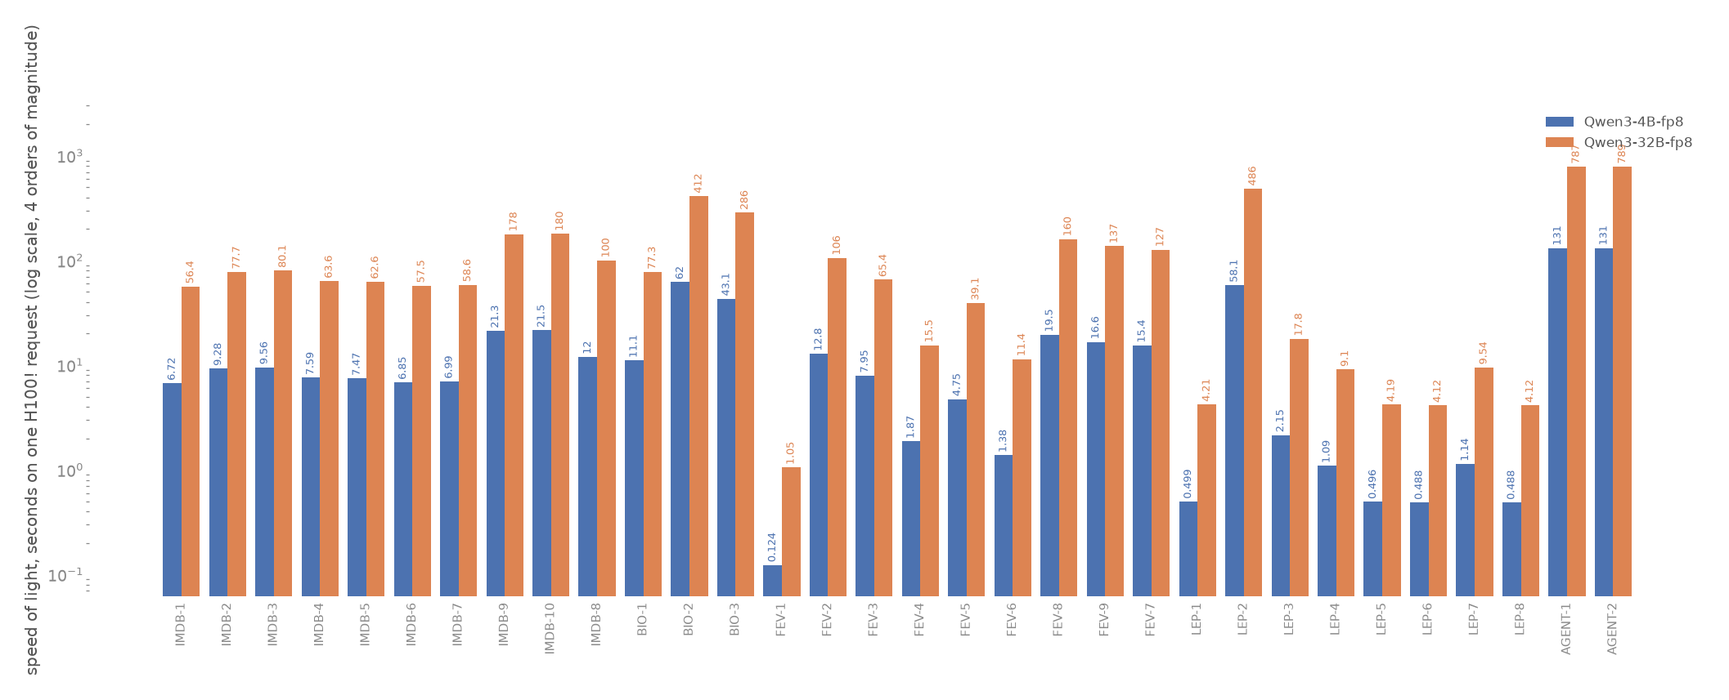
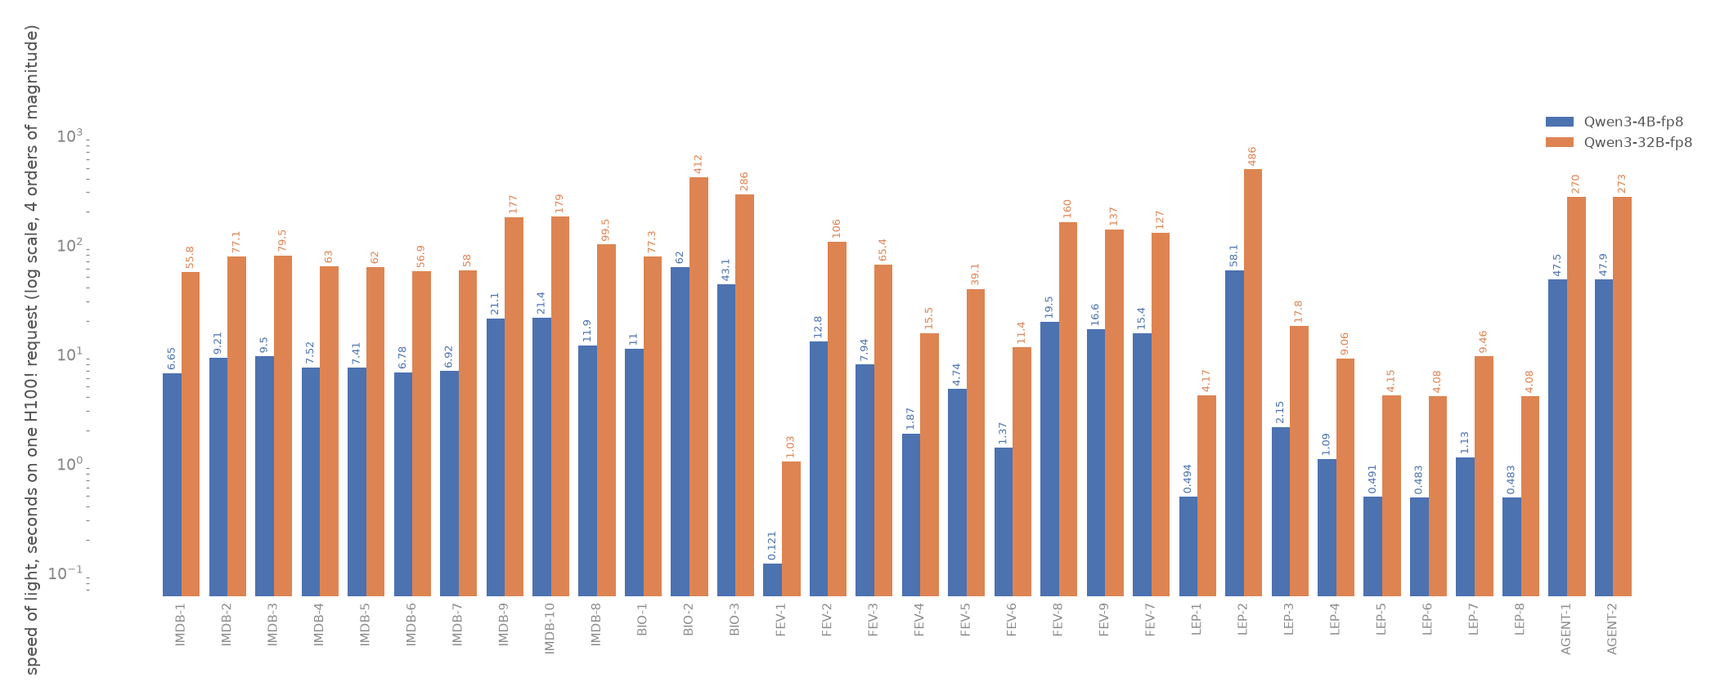
SoL credits token prefixes shared across documents
With unlimited KV an ideal execution computes each distinct token
prefix once, across documents as well as within one. The SoL script
now sorts each corpus's token sequences and credits every document the
longest common prefix with its predecessor, the size of the corpus
prefix trie, so a document's first use pays only for the tokens no
other document computed.

The review, report, claim, and passage corpora share under 1% of
their tokens this way and their estimates move by 0.3%. The agent
traces share 68.9%: AGENT-1 drops from 130.96 s to 47.46 s of ideal
work for Qwen3 4B fp8. Against that mark Quail, which computes every
trace from scratch, sits at 5.05x, pipelined vLLM at 2.06x, and stock
vLLM at 2.86x. The 32 query totals are 3.51x SoL for Quail, 7.43x for
stock vLLM, and 7.10x for pipelined vLLM. Both reports and both figure
sets are rebuilt, and the file is on the quail-results volume at
/sol/sol_quailb_sf0.1.json.

Claude-Session: https://claude.ai/code/session_01BKjo54TohtVqYAhCSb6Qz8

diff --git a/reports/make_sol_quailb.py b/reports/make_sol_quailb.py
@@ -28,8 +28,11 @@ KV is computed, used once, and removed (`executor/pack.py` never retains tuple
 suffix KV).
 
 The estimate therefore computes a document prefix once however many questions
-get asked about it. Each later question still reads that prefix from KV. Three
-operations follow:
+get asked about it. Each later question still reads that prefix from KV. The
+same holds across documents: a token prefix that an earlier document already
+computed is resident, so a document pays only for the tokens beyond its
+longest common prefix with the corpus (agent trace rows sampled from one
+trajectory share most of their tokens). Three operations follow:
 
     scan()      compute a prefix and its first suffix, from nothing
     ask()       reuse a resident prefix, attach one more suffix
@@ -165,16 +168,43 @@ COLUMNS = {
     "agent_traces.trace": ("agent_traces", "trace"),
 }
 
-# 1. document lengths -------------------------------------------------
+# 1. document lengths and shared prefixes ----------------------------
+#
+# With unlimited KV, an ideal execution computes each distinct token
+# prefix once, across documents as well as within one. The tokens a
+# corpus needs are the nodes of the prefix trie over its documents,
+# and that count is the sum over the documents in sorted order of the
+# tokens beyond the longest common prefix with the previous document.
+# Each document is credited that shared length: its first use pays
+# only for the tokens no earlier document computed.
 lengths = {}        # column -> {doc id: token count}
+shared = {}         # column -> {doc id: prefix tokens another doc computed}
+
+
+def longest_common_prefix(left, right) -> int:
+    limit = min(len(left), len(right))
+    for index in range(limit):
+        if left[index] != right[index]:
+            return index
+    return limit
+
+
 for key, (table, col) in COLUMNS.items():
     t = pq.read_table(W / "data" / TAG / f"{table}.parquet",
                       columns=["id", col])
-    lengths[key] = {i: length(x) for i, x in
-                    zip(t.column("id").to_pylist(), t.column(col).to_pylist())}
+    tokens_by_doc = {i: encode(x) for i, x in
+                     zip(t.column("id").to_pylist(), t.column(col).to_pylist())}
+    lengths[key] = {i: len(ids) for i, ids in tokens_by_doc.items()}
+    shared[key] = {}
+    previous = ()
+    for doc_id, ids in sorted(tokens_by_doc.items(), key=lambda item: item[1]):
+        shared[key][doc_id] = longest_common_prefix(previous, ids)
+        previous = ids
     v = lengths[key].values()
+    credited = sum(shared[key].values())
     print(f"{key:32} {len(v):>6} docs  {sum(v):>10,} tokens  "
-          f"mean {sum(v) / len(v):>8.1f}", flush=True)
+          f"mean {sum(v) / len(v):>8.1f}  shared prefix "
+          f"{credited:>10,} ({credited / sum(v):.1%})", flush=True)
 
 # 2. prompt lengths ---------------------------------------------------
 FILTER_TEMPLATES = {c: getattr(Q, c) for c in (
@@ -266,6 +296,20 @@ def prompt_token_counts(prompt):
     return labels_by_alias, prompt.tail_tokens
 
 
+def first_use(alias_data, row, suffix) -> Work:
+    """Compute one document's prefix for the first time in a query.
+
+    The tokens an earlier document already computed are resident, so
+    the document pays only for the rest of its prefix and the suffix.
+    """
+    prefix = PRE + alias_data["tokens"][row]
+    shared_tokens = alias_data["shared"][row]
+    if shared_tokens == 0:
+        return scan(prefix, suffix)
+    resident = PRE + shared_tokens
+    return ask(resident, prefix - resident + suffix)
+
+
 def join_stage_work(anchor, partners, aliases, survivors, prompt,
                     resident_rows) -> Work:
     """One stage's Work. Anchor rows in resident_rows have their
@@ -288,7 +332,7 @@ def join_stage_work(anchor, partners, aliases, survivors, prompt,
     for row in survivors[anchor]:
         prefix = PRE + aliases[anchor]["tokens"][row]
         work = work + (ask(prefix, frame) if row in resident_rows
-                       else scan(prefix, frame))
+                       else first_use(aliases[anchor], row, frame))
         anchor_prefix = prefix + frame
         work = work + Work(
             tokens=suffix_tokens,
@@ -327,6 +371,7 @@ def prepare_query(query, model: ModelSpec, chunk_tokens: int,
             "column": key,
             "ids": ids,
             "tokens": [lengths[key][doc_id] for doc_id in ids],
+            "shared": [shared[key][doc_id] for doc_id in ids],
         }
     if plan is None:
         rule = (query.order if query.order is not None else
@@ -361,10 +406,12 @@ def prepare_query(query, model: ModelSpec, chunk_tokens: int,
             predicate = filters[alias][written_pos]
             code = prompt_code(predicate.prompt)
             qtokens = predicate.prompt.tail_tokens
-            operation = scan if stage_index == 0 else ask
             for row in live:
-                prefix = PRE + aliases[alias]["tokens"][row]
-                work = work + operation(prefix, qtokens)
+                if stage_index == 0:
+                    work = work + first_use(aliases[alias], row, qtokens)
+                else:
+                    prefix = PRE + aliases[alias]["tokens"][row]
+                    work = work + ask(prefix, qtokens)
             passed = [
                 row for row in live
                 if prompt_answer(predicate.prompt, {alias: row}, aliases)

diff --git a/reports/2026-08-31-quailb-kv-regret.md b/reports/2026-08-31-quailb-kv-regret.md
@@ -185,7 +185,8 @@ Thin vertical lines separate the five query families. The horizontal line
 separates the performance panels from KV regret. The dark horizontal mark on
 each query is the speed of light (SoL) estimate from
 `reports/make_sol_quailb.py`: the ideal one H100 time for the modeled work
-with ideal packing and unlimited KV, priced from counted constants.
+with ideal packing, unlimited KV, and every distinct token prefix computed
+once across the corpus, priced from counted constants.
 
 The unit is documents per second for filter-only queries and evaluated document
 pairs per second for queries with at least one join.
@@ -194,12 +195,12 @@ pairs per second for queries with at least one join.
 
 | Method | Total time (s) | SoL total (s) | Time / SoL | Median time / SoL | Best query | Worst query |
 |---|---:|---:|---:|---:|---|---|
-| Quail | 1,629.61 | 632.66 | 2.58x | 2.48x | AGENT-1 (1.83x) | LEP-5 (50.85x) |
-| Stock vLLM | 3,453.08 | 632.66 | 5.46x | 5.82x | AGENT-1 (1.04x) | LEP-5 (74.08x) |
-| Pipelined vLLM | 3,298.33 | 632.66 | 5.21x | 4.31x | AGENT-1 (0.75x) | LEP-5 (81.86x) |
+| Quail | 1,629.61 | 464.74 | 3.51x | 2.68x | BIO-1 (1.95x) | LEP-5 (51.36x) |
+| Stock vLLM | 3,453.08 | 464.74 | 7.43x | 5.88x | BIO-1 (2.58x) | LEP-5 (74.83x) |
+| Pipelined vLLM | 3,298.33 | 464.74 | 7.10x | 4.34x | AGENT-2 (2.06x) | LEP-5 (82.69x) |
 
-Quail runs the 32 queries in 2.58 times the SoL total, against 5.46 times for
-stock vLLM and 5.21 times for pipelined vLLM. The median query is 2.48 times
+Quail runs the 32 queries in 3.51 times the SoL total, against 7.43 times for
+stock vLLM and 7.10 times for pipelined vLLM. The median query is 2.68 times
 SoL for Quail. The BioDEX and most IMDB and FEVER queries sit between 2 and 3
 times SoL for Quail.
 
@@ -218,15 +219,17 @@ times the pairs the SoL models. The three methods do the same model driven
 work, so the comparison between them is unaffected; the SoL column shows what
 the query would cost if the model's answers matched the ground truth.
 
-The agent queries go the other way: pipelined vLLM finishes AGENT-1 in 0.75
-times the SoL and stock vLLM in 1.04 times, while Quail takes 1.83 times. The
-SoL computes every document's prefix once, and so does Quail. The agent trace
-rows are prefixes of each other: the corpus samples one row every five
-assistant turns of the same trajectory, so consecutive rows share most of
-their 9,736 mean tokens. vLLM's prefix cache serves the shared part from KV,
-which is work the SoL charges in full. The regret metric does not count that
-sharing either, which is why both vLLM methods report zero regret on these
-queries while beating Quail.
+The agent queries are the one place the vLLM methods beat Quail, and the SoL
+says why. The agent trace rows are prefixes of each other: the corpus samples
+one row every five assistant turns of the same trajectory, and 68.9% of the
+corpus tokens are a prefix some other row already contains. The SoL credits
+that sharing, so AGENT-1 needs 47.46 seconds of ideal work, not the 130.96
+seconds it would need with every trace computed from scratch. Quail computes
+every trace from scratch and lands at 5.05 times SoL. vLLM's prefix cache
+serves part of the shared tokens from KV and lands at 2.86 times SoL for
+stock and 2.06 times for pipelined. The regret metric does not count sharing
+across different rows, which is why both vLLM methods report zero regret
+here. Cross-document prefix reuse is work Quail's KV rewind does not do yet.
 
 ### Per-query metrics
 
@@ -235,38 +238,38 @@ work, and cost. Each method's cell ends with its time as a multiple of SoL.
 
 | Query | Unit | SoL estimate | Quail | Stock vLLM | Pipelined vLLM |
 |---|---|---:|---:|---:|---:|
-| IMDB-1 | docs/s | 6.72 s; 743.9 docs/s; $0.0074 | 14.88 s; 336.0 docs/s; $0.0163; 0 regret; 2.21x SoL | 19.88 s; 251.6 docs/s; $0.0218; 0 regret; 2.96x SoL | 17.30 s; 289.0 docs/s; $0.0190; 0 regret; 2.57x SoL |
-| IMDB-2 | pairs/s | 9.28 s; 6,465.5 pairs/s; $0.0102 | 21.65 s; 2,771.4 pairs/s; $0.0238; 0 regret; 2.33x SoL | 29.25 s; 2,051.5 pairs/s; $0.0321; 0 regret; 3.15x SoL | 28.53 s; 2,102.7 pairs/s; $0.0313; 0 regret; 3.07x SoL |
-| IMDB-3 | pairs/s | 9.56 s; 5,023.7 pairs/s; $0.0105 | 33.03 s; 1,591.3 pairs/s; $0.0362; 1,217,732 regret; 3.45x SoL | 45.80 s; 1,146.0 pairs/s; $0.0502; 1,326,432 regret; 4.79x SoL | 42.28 s; 1,241.5 pairs/s; $0.0464; 1,326,432 regret; 4.42x SoL |
-| IMDB-4 | pairs/s | 7.59 s; 1,625.8 pairs/s; $0.0083 | 20.39 s; 739.8 pairs/s; $0.0224; 361,440 regret; 2.69x SoL | 46.64 s; 327.5 pairs/s; $0.0512; 500,400 regret; 6.15x SoL | 27.59 s; 553.6 pairs/s; $0.0303; 500,400 regret; 3.64x SoL |
-| IMDB-5 | pairs/s | 7.47 s; 1,072.5 pairs/s; $0.0082 | 18.13 s; 481.2 pairs/s; $0.0199; 188,587 regret; 2.43x SoL | 48.66 s; 183.7 pairs/s; $0.0534; 186,256 regret; 6.51x SoL | 25.94 s; 344.6 pairs/s; $0.0285; 278,240 regret; 3.47x SoL |
-| IMDB-6 | docs/s | 6.85 s; 730.1 docs/s; $0.0075 | 14.91 s; 335.3 docs/s; $0.0164; 0 regret; 2.18x SoL | 37.64 s; 132.8 docs/s; $0.0413; 0 regret; 5.50x SoL | 18.83 s; 265.6 docs/s; $0.0207; 0 regret; 2.75x SoL |
-| IMDB-7 | docs/s | 6.99 s; 715.2 docs/s; $0.0077 | 15.09 s; 331.3 docs/s; $0.0166; 0 regret; 2.16x SoL | 44.62 s; 112.1 docs/s; $0.0489; 0 regret; 6.38x SoL | 20.65 s; 242.2 docs/s; $0.0226; 0 regret; 2.95x SoL |
-| IMDB-8 | pairs/s | 11.97 s; 8,721.5 pairs/s; $0.0131 | 27.43 s; 3,346.3 pairs/s; $0.0301; 0 regret; 2.29x SoL | 46.95 s; 2,123.2 pairs/s; $0.0515; 1,062,720 regret; 3.92x SoL | 46.84 s; 2,128.3 pairs/s; $0.0514; 1,062,720 regret; 3.91x SoL |
-| IMDB-9 | pairs/s | 21.25 s; 7,736.4 pairs/s; $0.0233 | 48.68 s; 3,118.1 pairs/s; $0.0534; 0 regret; 2.29x SoL | 74.68 s; 2,138.4 pairs/s; $0.0819; 1,062,720 regret; 3.51x SoL | 75.98 s; 2,101.9 pairs/s; $0.0833; 1,062,720 regret; 3.58x SoL |
-| IMDB-10 | pairs/s | 21.54 s; 7,079.3 pairs/s; $0.0236 | 60.95 s; 2,470.9 pairs/s; $0.0669; 1,217,732 regret; 2.83x SoL | 92.95 s; 1,637.2 pairs/s; $0.1020; 2,389,152 regret; 4.32x SoL | 90.35 s; 1,684.5 pairs/s; $0.0991; 2,389,152 regret; 4.20x SoL |
-| BIO-1 | docs/s | 11.06 s; 45.2 docs/s; $0.0121 | 21.59 s; 23.2 docs/s; $0.0237; 0 regret; 1.95x SoL | 28.52 s; 17.5 docs/s; $0.0313; 0 regret; 2.58x SoL | 25.37 s; 19.7 docs/s; $0.0278; 0 regret; 2.29x SoL |
-| BIO-2 | pairs/s | 62.01 s; 9,087.1 pairs/s; $0.0680 | 129.64 s; 4,346.7 pairs/s; $0.1422; 0 regret; 2.09x SoL | 924.93 s; 609.2 pairs/s; $1.0146; 0 regret; 14.92x SoL | 895.78 s; 629.1 pairs/s; $0.9827; 0 regret; 14.45x SoL |
-| BIO-3 | pairs/s | 43.10 s; 8,002.1 pairs/s; $0.0473 | 90.20 s; 3,423.5 pairs/s; $0.0989; 919,409 regret; 2.09x SoL | 501.11 s; 620.7 pairs/s; $0.5497; 1,079,840 regret; 11.63x SoL | 500.44 s; 621.6 pairs/s; $0.5490; 1,079,840 regret; 11.61x SoL |
-| FEV-1 | docs/s | 0.12 s; 4,037.0 docs/s; $0.0001 | 0.29 s; 1,724.1 docs/s; $0.0003; 0 regret; 2.34x SoL | 0.53 s; 940.6 docs/s; $0.0006; 0 regret; 4.29x SoL | 0.40 s; 1,238.0 docs/s; $0.0004; 0 regret; 3.26x SoL |
-| FEV-2 | pairs/s | 12.85 s; 11,170.7 pairs/s; $0.0141 | 29.14 s; 4,924.5 pairs/s; $0.0320; 0 regret; 2.27x SoL | 81.27 s; 1,765.8 pairs/s; $0.0892; 0 regret; 6.33x SoL | 77.33 s; 1,855.7 pairs/s; $0.0848; 0 regret; 6.02x SoL |
-| FEV-3 | pairs/s | 7.95 s; 10,688.9 pairs/s; $0.0087 | 21.58 s; 4,801.1 pairs/s; $0.0237; 0 regret; 2.72x SoL | 56.83 s; 1,888.9 pairs/s; $0.0623; 0 regret; 7.15x SoL | 57.78 s; 1,857.6 pairs/s; $0.0634; 0 regret; 7.27x SoL |
-| FEV-4 | pairs/s | 1.87 s; 5,978.5 pairs/s; $0.0021 | 4.76 s; 2,833.8 pairs/s; $0.0052; 0 regret; 2.54x SoL | 9.01 s; 1,624.6 pairs/s; $0.0099; 0 regret; 4.81x SoL | 8.75 s; 1,673.2 pairs/s; $0.0096; 0 regret; 4.67x SoL |
-| FEV-5 | pairs/s | 4.75 s; 9,915.1 pairs/s; $0.0052 | 13.66 s; 4,519.1 pairs/s; $0.0150; 0 regret; 2.88x SoL | 38.02 s; 1,692.0 pairs/s; $0.0417; 44,000 regret; 8.01x SoL | 36.73 s; 1,751.2 pairs/s; $0.0403; 44,000 regret; 7.74x SoL |
-| FEV-6 | pairs/s | 1.38 s; 4,496.5 pairs/s; $0.0015 | 3.65 s; 2,201.9 pairs/s; $0.0040; 0 regret; 2.65x SoL | 7.56 s; 1,159.6 pairs/s; $0.0083; 0 regret; 5.49x SoL | 6.98 s; 1,257.1 pairs/s; $0.0077; 0 regret; 5.06x SoL |
-| FEV-7 | pairs/s | 15.44 s; 10,821.3 pairs/s; $0.0169 | 54.70 s; 4,916.3 pairs/s; $0.0600; 0 regret; 3.54x SoL | 156.03 s; 1,721.6 pairs/s; $0.1712; 0 regret; 10.11x SoL | 141.58 s; 1,897.3 pairs/s; $0.1553; 0 regret; 9.17x SoL |
-| FEV-8 | pairs/s | 19.50 s; 10,949.1 pairs/s; $0.0214 | 85.22 s; 4,974.2 pairs/s; $0.0935; 0 regret; 4.37x SoL | 232.43 s; 1,827.5 pairs/s; $0.2550; 132,384 regret; 11.92x SoL | 229.74 s; 1,848.9 pairs/s; $0.2520; 132,384 regret; 11.78x SoL |
-| FEV-9 | pairs/s | 16.65 s; 10,788.0 pairs/s; $0.0183 | 77.68 s; 4,943.4 pairs/s; $0.0852; 0 regret; 4.67x SoL | 219.53 s; 1,770.2 pairs/s; $0.2408; 132,384 regret; 13.19x SoL | 210.47 s; 1,846.3 pairs/s; $0.2309; 132,384 regret; 12.64x SoL |
-| LEP-1 | docs/s | 0.50 s; 1,002.4 docs/s; $0.0005 | 1.11 s; 450.5 docs/s; $0.0012; 0 regret; 2.23x SoL | 1.58 s; 316.7 docs/s; $0.0017; 0 regret; 3.17x SoL | 1.32 s; 380.0 docs/s; $0.0014; 0 regret; 2.64x SoL |
-| LEP-2 | pairs/s | 58.09 s; 3,726.9 pairs/s; $0.0637 | 131.43 s; 1,647.3 pairs/s; $0.1442; 0 regret; 2.26x SoL | 156.92 s; 1,379.7 pairs/s; $0.1721; 0 regret; 2.70x SoL | 218.79 s; 989.5 pairs/s; $0.2400; 0 regret; 3.77x SoL |
-| LEP-3 | pairs/s | 2.15 s; 2,818.9 pairs/s; $0.0024 | 94.06 s; 1,638.8 pairs/s; $0.1032; 0 regret; 43.74x SoL | 119.61 s; 1,364.8 pairs/s; $0.1312; 71,936 regret; 55.62x SoL | 120.93 s; 1,349.9 pairs/s; $0.1327; 71,936 regret; 56.23x SoL |
-| LEP-4 | pairs/s | 1.09 s; 1,983.3 pairs/s; $0.0012 | 40.17 s; 1,616.9 pairs/s; $0.0441; 0 regret; 36.80x SoL | 47.92 s; 1,373.5 pairs/s; $0.0526; 19,360 regret; 43.90x SoL | 66.43 s; 990.7 pairs/s; $0.0729; 19,360 regret; 60.86x SoL |
-| LEP-5 | pairs/s | 0.50 s; 1,880.3 pairs/s; $0.0005 | 25.23 s; 1,578.9 pairs/s; $0.0277; 0 regret; 50.85x SoL | 36.76 s; 1,295.8 pairs/s; $0.0403; 13,600 regret; 74.08x SoL | 40.62 s; 1,172.6 pairs/s; $0.0446; 13,600 regret; 81.86x SoL |
-| LEP-6 | pairs/s | 0.49 s; 1,910.4 pairs/s; $0.0005 | 9.15 s; 1,419.7 pairs/s; $0.0100; 0 regret; 18.74x SoL | 20.03 s; 886.4 pairs/s; $0.0220; 1,888 regret; 41.01x SoL | 17.88 s; 992.9 pairs/s; $0.0196; 1,888 regret; 36.61x SoL |
-| LEP-7 | pairs/s | 1.14 s; 1,542.1 pairs/s; $0.0012 | 39.39 s; 1,599.4 pairs/s; $0.0432; 0 regret; 34.61x SoL | 51.80 s; 1,235.4 pairs/s; $0.0568; 19,440 regret; 45.51x SoL | 48.01 s; 1,332.8 pairs/s; $0.0527; 19,440 regret; 42.19x SoL |
-| LEP-8 | docs/s | 0.49 s; 1,023.8 docs/s; $0.0005 | 1.33 s; 375.9 docs/s; $0.0015; 0 regret; 2.72x SoL | 2.53 s; 197.7 docs/s; $0.0028; 0 regret; 5.18x SoL | 1.97 s; 253.3 docs/s; $0.0022; 0 regret; 4.04x SoL |
-| AGENT-1 | docs/s | 130.96 s; 13.5 docs/s; $0.1437 | 239.75 s; 7.4 docs/s; $0.2630; 0 regret; 1.83x SoL | 135.96 s; 13.0 docs/s; $0.1491; 0 regret; 1.04x SoL | 97.99 s; 18.1 docs/s; $0.1075; 0 regret; 0.75x SoL |
-| AGENT-2 | docs/s | 131.36 s; 13.5 docs/s; $0.1441 | 240.74 s; 7.4 docs/s; $0.2641; 0 regret; 1.83x SoL | 137.13 s; 12.9 docs/s; $0.1504; 0 regret; 1.04x SoL | 98.74 s; 17.9 docs/s; $0.1083; 0 regret; 0.75x SoL |
+| IMDB-1 | docs/s | 6.65 s; 751.6 docs/s; $0.0073 | 14.88 s; 336.0 docs/s; $0.0163; 0 regret; 2.24x SoL | 19.88 s; 251.6 docs/s; $0.0218; 0 regret; 2.99x SoL | 17.30 s; 289.0 docs/s; $0.0190; 0 regret; 2.60x SoL |
+| IMDB-2 | pairs/s | 9.21 s; 6,513.9 pairs/s; $0.0101 | 21.65 s; 2,771.4 pairs/s; $0.0238; 0 regret; 2.35x SoL | 29.25 s; 2,051.5 pairs/s; $0.0321; 0 regret; 3.18x SoL | 28.53 s; 2,102.7 pairs/s; $0.0313; 0 regret; 3.10x SoL |
+| IMDB-3 | pairs/s | 9.50 s; 5,060.2 pairs/s; $0.0104 | 33.03 s; 1,591.3 pairs/s; $0.0362; 1,217,732 regret; 3.48x SoL | 45.80 s; 1,146.0 pairs/s; $0.0502; 1,326,432 regret; 4.82x SoL | 42.28 s; 1,241.5 pairs/s; $0.0464; 1,326,432 regret; 4.45x SoL |
+| IMDB-4 | pairs/s | 7.52 s; 1,640.7 pairs/s; $0.0082 | 20.39 s; 739.8 pairs/s; $0.0224; 361,440 regret; 2.71x SoL | 46.64 s; 327.5 pairs/s; $0.0512; 500,400 regret; 6.20x SoL | 27.59 s; 553.6 pairs/s; $0.0303; 500,400 regret; 3.67x SoL |
+| IMDB-5 | pairs/s | 7.41 s; 1,082.5 pairs/s; $0.0081 | 18.13 s; 481.2 pairs/s; $0.0199; 188,587 regret; 2.45x SoL | 48.66 s; 183.7 pairs/s; $0.0534; 186,256 regret; 6.57x SoL | 25.94 s; 344.6 pairs/s; $0.0285; 278,240 regret; 3.50x SoL |
+| IMDB-6 | docs/s | 6.78 s; 737.5 docs/s; $0.0074 | 14.91 s; 335.3 docs/s; $0.0164; 0 regret; 2.20x SoL | 37.64 s; 132.8 docs/s; $0.0413; 0 regret; 5.55x SoL | 18.83 s; 265.6 docs/s; $0.0207; 0 regret; 2.78x SoL |
+| IMDB-7 | docs/s | 6.92 s; 722.3 docs/s; $0.0076 | 15.09 s; 331.3 docs/s; $0.0166; 0 regret; 2.18x SoL | 44.62 s; 112.1 docs/s; $0.0489; 0 regret; 6.45x SoL | 20.65 s; 242.2 docs/s; $0.0226; 0 regret; 2.98x SoL |
+| IMDB-8 | pairs/s | 11.90 s; 8,772.1 pairs/s; $0.0131 | 27.43 s; 3,346.3 pairs/s; $0.0301; 0 regret; 2.30x SoL | 46.95 s; 2,123.2 pairs/s; $0.0515; 1,062,720 regret; 3.94x SoL | 46.84 s; 2,128.3 pairs/s; $0.0514; 1,062,720 regret; 3.94x SoL |
+| IMDB-9 | pairs/s | 21.11 s; 7,786.9 pairs/s; $0.0232 | 48.68 s; 3,118.1 pairs/s; $0.0534; 0 regret; 2.31x SoL | 74.68 s; 2,138.4 pairs/s; $0.0819; 1,062,720 regret; 3.54x SoL | 75.98 s; 2,101.9 pairs/s; $0.0833; 1,062,720 regret; 3.60x SoL |
+| IMDB-10 | pairs/s | 21.40 s; 7,124.9 pairs/s; $0.0235 | 60.95 s; 2,470.9 pairs/s; $0.0669; 1,217,732 regret; 2.85x SoL | 92.95 s; 1,637.2 pairs/s; $0.1020; 2,389,152 regret; 4.34x SoL | 90.35 s; 1,684.5 pairs/s; $0.0991; 2,389,152 regret; 4.22x SoL |
+| BIO-1 | docs/s | 11.05 s; 45.3 docs/s; $0.0121 | 21.59 s; 23.2 docs/s; $0.0237; 0 regret; 1.95x SoL | 28.52 s; 17.5 docs/s; $0.0313; 0 regret; 2.58x SoL | 25.37 s; 19.7 docs/s; $0.0278; 0 regret; 2.30x SoL |
+| BIO-2 | pairs/s | 62.00 s; 9,088.5 pairs/s; $0.0680 | 129.64 s; 4,346.7 pairs/s; $0.1422; 0 regret; 2.09x SoL | 924.93 s; 609.2 pairs/s; $1.0146; 0 regret; 14.92x SoL | 895.78 s; 629.1 pairs/s; $0.9827; 0 regret; 14.45x SoL |
+| BIO-3 | pairs/s | 43.09 s; 8,003.8 pairs/s; $0.0473 | 90.20 s; 3,423.5 pairs/s; $0.0989; 919,409 regret; 2.09x SoL | 501.11 s; 620.7 pairs/s; $0.5497; 1,079,840 regret; 11.63x SoL | 500.44 s; 621.6 pairs/s; $0.5490; 1,079,840 regret; 11.61x SoL |
+| FEV-1 | docs/s | 0.12 s; 4,139.2 docs/s; $0.0001 | 0.29 s; 1,724.1 docs/s; $0.0003; 0 regret; 2.40x SoL | 0.53 s; 940.6 docs/s; $0.0006; 0 regret; 4.40x SoL | 0.40 s; 1,238.0 docs/s; $0.0004; 0 regret; 3.34x SoL |
+| FEV-2 | pairs/s | 12.84 s; 11,171.7 pairs/s; $0.0141 | 29.14 s; 4,924.5 pairs/s; $0.0320; 0 regret; 2.27x SoL | 81.27 s; 1,765.8 pairs/s; $0.0892; 0 regret; 6.33x SoL | 77.33 s; 1,855.7 pairs/s; $0.0848; 0 regret; 6.02x SoL |
+| FEV-3 | pairs/s | 7.94 s; 10,694.6 pairs/s; $0.0087 | 21.58 s; 4,801.1 pairs/s; $0.0237; 0 regret; 2.72x SoL | 56.83 s; 1,888.9 pairs/s; $0.0623; 0 regret; 7.15x SoL | 57.78 s; 1,857.6 pairs/s; $0.0634; 0 regret; 7.27x SoL |
+| FEV-4 | pairs/s | 1.87 s; 5,991.9 pairs/s; $0.0020 | 4.76 s; 2,833.8 pairs/s; $0.0052; 0 regret; 2.55x SoL | 9.01 s; 1,624.6 pairs/s; $0.0099; 0 regret; 4.82x SoL | 8.75 s; 1,673.2 pairs/s; $0.0096; 0 regret; 4.68x SoL |
+| FEV-5 | pairs/s | 4.74 s; 9,923.9 pairs/s; $0.0052 | 13.66 s; 4,519.1 pairs/s; $0.0150; 0 regret; 2.88x SoL | 38.02 s; 1,692.0 pairs/s; $0.0417; 44,000 regret; 8.02x SoL | 36.73 s; 1,751.2 pairs/s; $0.0403; 44,000 regret; 7.75x SoL |
+| FEV-6 | pairs/s | 1.37 s; 4,510.2 pairs/s; $0.0015 | 3.65 s; 2,201.9 pairs/s; $0.0040; 0 regret; 2.65x SoL | 7.56 s; 1,159.6 pairs/s; $0.0083; 0 regret; 5.50x SoL | 6.98 s; 1,257.1 pairs/s; $0.0077; 0 regret; 5.08x SoL |
+| FEV-7 | pairs/s | 15.43 s; 10,822.9 pairs/s; $0.0169 | 54.70 s; 4,916.3 pairs/s; $0.0600; 0 regret; 3.54x SoL | 156.03 s; 1,721.6 pairs/s; $0.1712; 0 regret; 10.11x SoL | 141.58 s; 1,897.3 pairs/s; $0.1553; 0 regret; 9.17x SoL |
+| FEV-8 | pairs/s | 19.50 s; 10,950.4 pairs/s; $0.0214 | 85.22 s; 4,974.2 pairs/s; $0.0935; 0 regret; 4.37x SoL | 232.43 s; 1,827.5 pairs/s; $0.2550; 132,384 regret; 11.92x SoL | 229.74 s; 1,848.9 pairs/s; $0.2520; 132,384 regret; 11.78x SoL |
+| FEV-9 | pairs/s | 16.64 s; 10,791.4 pairs/s; $0.0183 | 77.68 s; 4,943.4 pairs/s; $0.0852; 0 regret; 4.67x SoL | 219.53 s; 1,770.2 pairs/s; $0.2408; 132,384 regret; 13.19x SoL | 210.47 s; 1,846.3 pairs/s; $0.2309; 132,384 regret; 12.65x SoL |
+| LEP-1 | docs/s | 0.49 s; 1,012.6 docs/s; $0.0005 | 1.11 s; 450.5 docs/s; $0.0012; 0 regret; 2.25x SoL | 1.58 s; 316.7 docs/s; $0.0017; 0 regret; 3.20x SoL | 1.32 s; 380.0 docs/s; $0.0014; 0 regret; 2.66x SoL |
+| LEP-2 | pairs/s | 58.09 s; 3,727.2 pairs/s; $0.0637 | 131.43 s; 1,647.3 pairs/s; $0.1442; 0 regret; 2.26x SoL | 156.92 s; 1,379.7 pairs/s; $0.1721; 0 regret; 2.70x SoL | 218.79 s; 989.5 pairs/s; $0.2400; 0 regret; 3.77x SoL |
+| LEP-3 | pairs/s | 2.15 s; 2,825.4 pairs/s; $0.0024 | 94.06 s; 1,638.8 pairs/s; $0.1032; 0 regret; 43.84x SoL | 119.61 s; 1,364.8 pairs/s; $0.1312; 71,936 regret; 55.75x SoL | 120.93 s; 1,349.9 pairs/s; $0.1327; 71,936 regret; 56.36x SoL |
+| LEP-4 | pairs/s | 1.09 s; 1,992.5 pairs/s; $0.0012 | 40.17 s; 1,616.9 pairs/s; $0.0441; 0 regret; 36.97x SoL | 47.92 s; 1,373.5 pairs/s; $0.0526; 19,360 regret; 44.10x SoL | 66.43 s; 990.7 pairs/s; $0.0729; 19,360 regret; 61.14x SoL |
+| LEP-5 | pairs/s | 0.49 s; 1,899.4 pairs/s; $0.0005 | 25.23 s; 1,578.9 pairs/s; $0.0277; 0 regret; 51.36x SoL | 36.76 s; 1,295.8 pairs/s; $0.0403; 13,600 regret; 74.83x SoL | 40.62 s; 1,172.6 pairs/s; $0.0446; 13,600 regret; 82.69x SoL |
+| LEP-6 | pairs/s | 0.48 s; 1,930.2 pairs/s; $0.0005 | 9.15 s; 1,419.7 pairs/s; $0.0100; 0 regret; 18.93x SoL | 20.03 s; 886.4 pairs/s; $0.0220; 1,888 regret; 41.44x SoL | 17.88 s; 992.9 pairs/s; $0.0196; 1,888 regret; 36.99x SoL |
+| LEP-7 | pairs/s | 1.13 s; 1,554.5 pairs/s; $0.0012 | 39.39 s; 1,599.4 pairs/s; $0.0432; 0 regret; 34.89x SoL | 51.80 s; 1,235.4 pairs/s; $0.0568; 19,440 regret; 45.88x SoL | 48.01 s; 1,332.8 pairs/s; $0.0527; 19,440 regret; 42.53x SoL |
+| LEP-8 | docs/s | 0.48 s; 1,034.4 docs/s; $0.0005 | 1.33 s; 375.9 docs/s; $0.0015; 0 regret; 2.75x SoL | 2.53 s; 197.7 docs/s; $0.0028; 0 regret; 5.23x SoL | 1.97 s; 253.3 docs/s; $0.0022; 0 regret; 4.08x SoL |
+| AGENT-1 | docs/s | 47.46 s; 37.3 docs/s; $0.0521 | 239.75 s; 7.4 docs/s; $0.2630; 0 regret; 5.05x SoL | 135.96 s; 13.0 docs/s; $0.1491; 0 regret; 2.86x SoL | 97.99 s; 18.1 docs/s; $0.1075; 0 regret; 2.06x SoL |
+| AGENT-2 | docs/s | 47.87 s; 37.0 docs/s; $0.0525 | 240.74 s; 7.4 docs/s; $0.2641; 0 regret; 5.03x SoL | 137.13 s; 12.9 docs/s; $0.1504; 0 regret; 2.86x SoL | 98.74 s; 17.9 docs/s; $0.1083; 0 regret; 2.06x SoL |
 wrote /home/user/quail-exploration/reports/plots/quailb_sf01_4b_metrics.png
 wrote /home/user/quail-exploration/reports/plots/quailb_sf01_4b_per_query.png
 

diff --git a/reports/2026-08-29-sol-quailb.md b/reports/2026-08-29-sol-quailb.md
@@ -24,8 +24,11 @@ then uses saved ground truth to find the exact rows that reach each later
 stage. Join queries search every supported eager left deep relation order and
 anchor choice. The search supports binary full joins, applies each available
 crossing predicate immediately, and does not consider bushy plans. Document
-prefix KV has unlimited capacity in this estimate. Work is ideally packed
-across the whole query, even across operator barriers. This is separate from
+prefix KV has unlimited capacity in this estimate, and a token prefix that
+another document already computed is resident: each document pays only for
+the tokens beyond its longest common prefix with the rest of its corpus, the
+nodes of the corpus prefix trie. Work is ideally packed across the whole
+query, even across operator barriers. This is separate from
 the production planner, which must work without ground truth and with finite
 KV.
 
@@ -38,7 +41,8 @@ model's actual answers create. Where the model passes many more documents than
 the ground truth does, as on the LePaRD filters, the measured work is a
 multiple of the modeled work and the measured time is a multiple of the SoL
 that no scheduler can close. `reports/2026-08-31-quailb-kv-regret.md` shows
-that effect per query.
+that effect per query, and shows the agent queries, where the engines' own
+prefix reuse falls short of the estimate's.
 
 ## Prediction
 
@@ -52,19 +56,23 @@ FEVER claims. The active scale factor 0.1 corpus has 500 of each. The measured
 engine runs also used 500 of each, so the regenerated estimate is the correct
 comparison.
 
-- The 4B estimates total 632.66 seconds over 32 queries; the 30 queries
-  of the 2026-08-29 file total 370.34 seconds, and the file before that
-  totaled 209.14 seconds.
-- The 32B estimates total 4,466.82 seconds.
-- The two agent queries total 262.32 seconds for 4B and 1,576.24 seconds
-  for 32B. Each is one filter over 1,772 traces of 9,736 mean tokens, and
-  the estimate computes every trace from scratch. Trace rows sampled from
-  the same trajectory share long prefixes, which this estimate does not
-  credit; a prefix cache that does can finish below it.
-- IMDB totals 109.23 seconds for 4B.
-- BioDEX totals 116.17 seconds for 4B.
-- FEVER totals 80.50 seconds for 4B.
-- LePaRD totals 64.44 seconds for 4B.
+- The 4B estimates total 464.74 seconds over 32 queries. The 30 queries
+  of the 2026-08-29 file total 369.40 seconds, against 370.34 seconds in
+  that file: crediting shared prefixes moves them by 0.3%, because the
+  review, report, claim, and passage corpora share under 1% of their
+  tokens as prefixes.
+- The 32B estimates total 3,425.75 seconds.
+- The two agent queries total 95.34 seconds for 4B and 543.16 seconds for
+  32B. Each is one filter over 1,772 traces of 9,736 mean tokens. Trace
+  rows sampled from the same trajectory are prefixes of each other, and
+  68.9% of the corpus tokens are a prefix some other row already contains.
+  Computed from scratch the two queries would need 262.32 seconds for 4B;
+  with each distinct prefix computed once they need 95.34.
+- IMDB totals 108.40 seconds for 4B.
+- BioDEX totals 116.14 seconds for 4B.
+- FEVER totals 80.47 seconds for 4B.
+- LePaRD totals 64.40 seconds for 4B.
+- Agent totals 95.34 seconds for 4B.
 - The five retired BioDEX queries are no longer included.
 
 Figure: plots/sol_quailb_per_query.png
